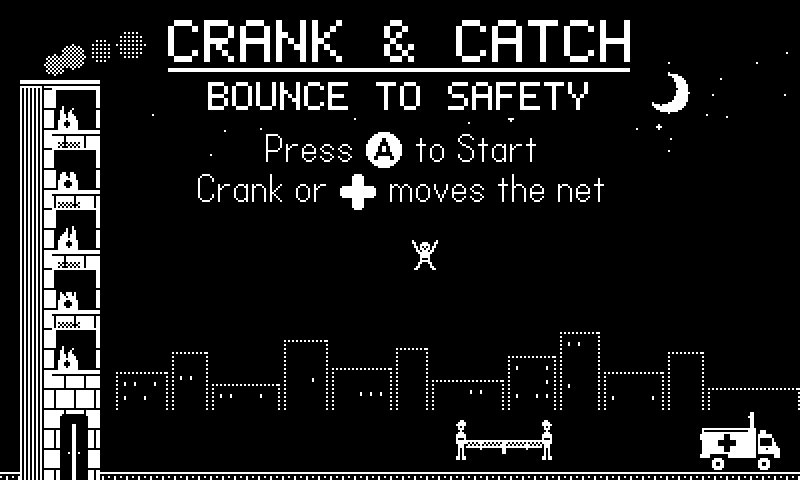
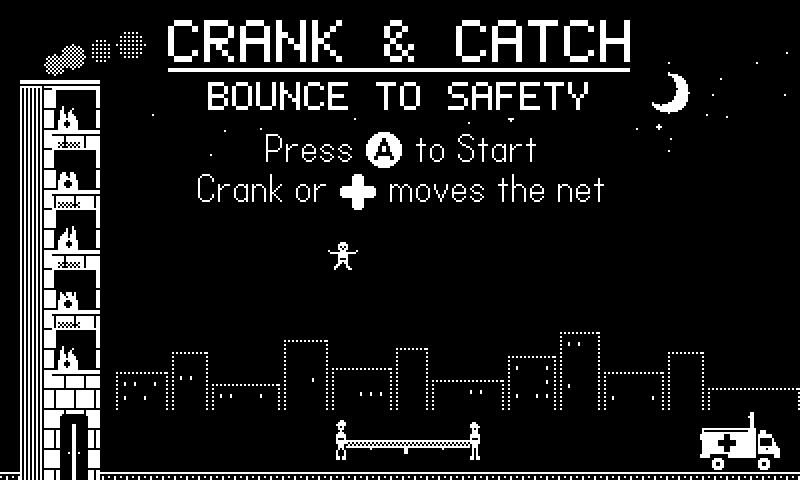
Crank & Catch 0.4: narrowing net, extra lives, gentler endgame
Skill climb by precision rather than speed alone:
- the net starts at 72 px and narrows 4 px every 500 points to a 44 px
  floor (reached at 3,500), animating with a "NET NARROWS" popup. Hit
  position is relative to the current width, so aim means the same at
  any width; physics and fair spawning take the current half width
- the net image is composed per width from the art's outer 5 columns
  (the firefighters, all walk frames) plus a drawn mesh and aim marks
- extra life every 10,000 points, capped at 5, with popup and chime
- speed-up capped at 1.3x (was 1.4x)

Endgame (4,000+, three jumpers) at 300 px/s crank: 9.7 -> 6.0 misses/min,
unavoidable share 49% -> 30% (scripts/fairness.lua, now width-aware).

Fix: the net stored its width in self.width, which Playdate sprites own
(image width, writes ignored), so it rendered 0 px wide on the device.
Renamed to netWidth; the smoke test's fake sprites now raise on writes
to width/height (verified against the old code).

Tests: physics reachability and aim at the widest and narrowest net,
net width and extra-life rules, smoke checks that the net narrows and
its catch area matches the drawing. Screenshots retaken.

Changed region(s): [[0.4062, 0.875, 0.6875, 0.9688], [0.5, 0.5, 0.5625, 0.5625], [0.4062, 0.5, 0.4375, 0.5625]]

diff --git a/docs/art-brief.md b/docs/art-brief.md
@@ -47,7 +47,7 @@ throws them back toward the building. Get them into the ambulance to score.
 | `victim.png` | 15 × 15 | A jumper, mid-air | Reads as a person at 15 px. Arms up or flailing. |
 | `victim-table-15-15.png` *(optional, replaces `victim.png`)* | 15 × 15 per frame | Same jumper, flailing | Frames side by side (4 frames = 60 × 15). Loops at 0.12 s/frame; each jumper starts at a random frame. |
 | `building-table-40-200.png` *(optional, replaces `building.png`)* | 40 × 200 per frame | Flames flickering in the windows | Same window positions in every frame. Loops at 0.18 s/frame. |
-| `firefighters-table-48-20.png` *(optional, replaces `firefighters.png`)* | 48 × 20 per frame | Walk cycle | **Frame 1 is the standing pose** (shown whenever the net is still). Frames advance every 8 px the net moves, so steps match the crank. The net surface stays on row 10 in every frame. |
+| `firefighters-table-48-20.png` *(optional, replaces `firefighters.png`)* | 48 × 20 per frame | Walk cycle | **Frame 1 is the standing pose** (shown whenever the net is still). Frames advance every 8 px the net moves, so steps match the crank. The net surface stays on row 10 in every frame. **Only the outer 5 columns on each side are used** (the firefighters): the game redraws the net between them at its current width (72 px narrowing to 44 px), so keep each firefighter within those 5 columns. |
 | `smoke-table-64-24.png` *(optional)* | 64 × 24 per frame | Smoke drifting off the roof | Its bottom-left corner sits on the roof's left edge (screen x 10, y 40); puffs drift up and to the right. Loops at 0.3 s/frame, on its own clock. No placeholder: without this file there's no smoke. |
 | `ambulance.png` | 40 × 30 | The ambulance on the right; its bottom sits about 5 px above the screen's bottom | Victims drop in from above and the left, so an open back or roof hatch facing left/up sells it. Cab on the right. |
 | `ambulance-flash.png` *(optional)* | 40 × 30 | Shown for 0.2 s on each rescue | If missing, the game uses an inverted `ambulance.png`. |

diff --git a/memory_bank/productContext.md b/memory_bank/productContext.md
@@ -11,8 +11,10 @@
 5. A victim hitting the ground costs a life. Three lives.
 
 ## Difficulty
+- **Net width** (`Rules.netWidth`): 72 px at the start, −4 px every 500 points, floor 44 px at 3,500. Narrowing animates (24 px/s) with a "NET NARROWS" popup. Hit position is relative to the current width, so aim means the same at every width; the net image is composed per width from the art's two end figures (5 px each, all walk frames) plus a drawn net and aim marks.
+- **Extra life** every 10,000 points, capped at 5 lives, with an "EXTRA LIFE!" popup and chime.
 - Victims at once: 1, then 2 at 500 points, then 3 at 2,000.
-- Every 500 points: game time runs 5% faster (capped at 1.4×), and the gap between extra jumpers drops 0.25 s (from 3 s down to 1.5 s).
+- Every 500 points: game time runs 5% faster (capped at 1.3×, reached at 3,000), and the gap between extra jumpers drops 0.25 s (from 3 s down to 1.5 s).
 - Time scaling keeps trajectories identical, so tested reachability holds at any speed.
 - **Fair spawning** (`Rules.chooseLaunch`): an extra jumper leaps only if its first landing and every other jumper's next landing are reachable at 300 px/s of crank travel plus 0.2 s of reaction time (scaled by game speed); otherwise it waits a frame and retries. Measured with `scripts/fairness.lua` at 300 px/s: the two-jumper stage went from 8.4 misses/min (68% unavoidable) to 1.2/min (0%); the three-jumper stage from 18.1/min to 3.6/min (about 1/min still unavoidable, all from clashes after the first bounce). More slack made it worse, so 300/0.2 stays.
 
@@ -29,4 +31,5 @@
 
 ## Known open questions
 - How the busy stages feel on hardware now that spawning is fair.
+- Endgame (3,500+: 44 px net, 1.3×, three jumpers): softened from 40 px / 1.4×. Fairness probe at 300 px/s: 9.7 → 6.0 misses/min, unavoidable 49% → 30%; at 450 px/s, 0.6 misses/min. Still the hardest stretch at a relaxed pace; extra lives help.
 - Title is **Crank & Catch**, bundle ID `com.mrballistic.crankandcatch`.

diff --git a/README.md b/README.md
@@ -7,8 +7,8 @@ A crank-controlled rescue game for [Playdate](https://play.date). People are jum
 - 🎣 **Turn the crank** to slide the firefighters and their net (the D-pad works too).
 - 🎯 **Where they land on the net sets the throw.** Center sends them nearly straight up and a little forward: safe, and it buys time. The right side throws them toward the ambulance. The left side throws them back toward the building.
 - 🚑 **Get them into the ambulance** for 100 points. Make it in **2 bounces or fewer** for an Express bonus (+50).
-- ❌ Three misses and it's over.
-- 📈 **It ramps up:** a second jumper at 500 points, a third at 2,000, and every 500 points the action runs 5% faster (capped at +40%) with less time between jumpers.
+- ❌ Three misses and it's over. Every 10,000 points earns an extra life (up to 5).
+- 📈 **It ramps up:** the net starts wide (72 px) and narrows 4 px every 500 points, down to 44 px at 3,500. A second jumper joins at 500 points and a third at 2,000, and every 500 points the action runs 5% faster (capped at +30%) with less time between jumpers.
 - ⚖ **It's fair:** an extra jumper only leaps when a player cranking at a comfortable pace could reach both their first landing and everyone else's next one. Clashes after that come from where you aimed.
 
 | Control | Action |

diff --git a/memory_bank/systemPatterns.md b/memory_bank/systemPatterns.md
@@ -5,6 +5,7 @@
 - `main.lua` owns everything that changes: the state machine (menu / playing / paused / game over), the victim list, scoring, lives and spawning. No observer or event bus: rescue and loss call `onRescued` / `onLost` directly. (An earlier observer setup re-registered on every game, which doubled scoring in game 2.)
 - **Pure-Lua core:** `config.lua`, `physics.lua` and `rules.lua` touch no `playdate.*` APIs, so tests run on stock Lua. Keep any new game logic in this layer when possible.
 - **Sprites don't move themselves.** `gfx.sprite.update()` calls every sprite's `update()` with no arguments, so movement or timers in `update()` run twice per frame or crash on a nil `dt`. Entities expose `tick(dt)` (animation, timers) and `sync()` (copy the physics body to the sprite position), called from `main.lua`.
+- **Never store game data in `self.width` / `self.height` on a sprite.** Playdate sprites own those (their image's size) and silently ignore writes, so the net once rendered 0 px wide on hardware. The net uses `netWidth`/`half`. The smoke test's fake sprites now raise on such writes.
 - Victim state lives in a plain `body` table `{x, y, vx, vy, bounces}`, separate from the sprite.
 
 ## Physics

diff --git a/memory_bank/activeContext.md b/memory_bank/activeContext.md
@@ -17,6 +17,8 @@ Original art and sound are in (named **Crank & Catch**). Next is a simulator pla
 
 - 0.3: fair spawning; background art restored (gfx.sprite.removeAll() was deleting the background sprite, so it's now re-registered on every scene build); score moved to top center; popups clamped on screen; American spelling throughout; title subtitle centered; screenshot tooling.
 
+- 0.4: net starts at 72 px and narrows 4 px per 500 points to a 44 px floor (composed per width from the art's end figures); extra life every 10,000 points (max 5); speed-up capped at 1.3×; fixed a hardware-only bug where the net stored its width in the sprite's read-only `width` (rendered 0 px wide); smoke stubs now reject such writes.
+
 ## Next steps
 1. Source MP3s live in `docs/`; regenerate the game WAVs with `python3 scripts/prep_sounds.py docs`.
 2. Playtest on the simulator and device: crank sensitivity (2 px per degree), the 3-victim threshold, and whether the menu hint text fits beside the crank indicator.
